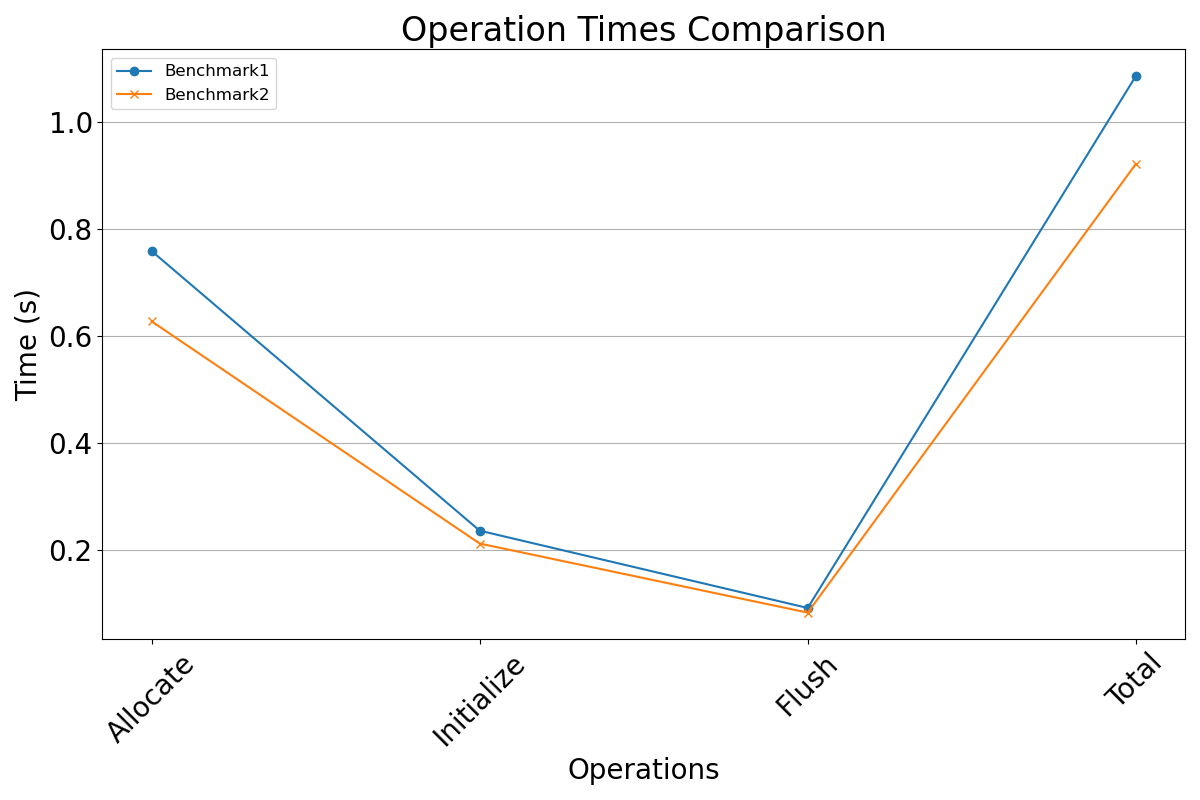
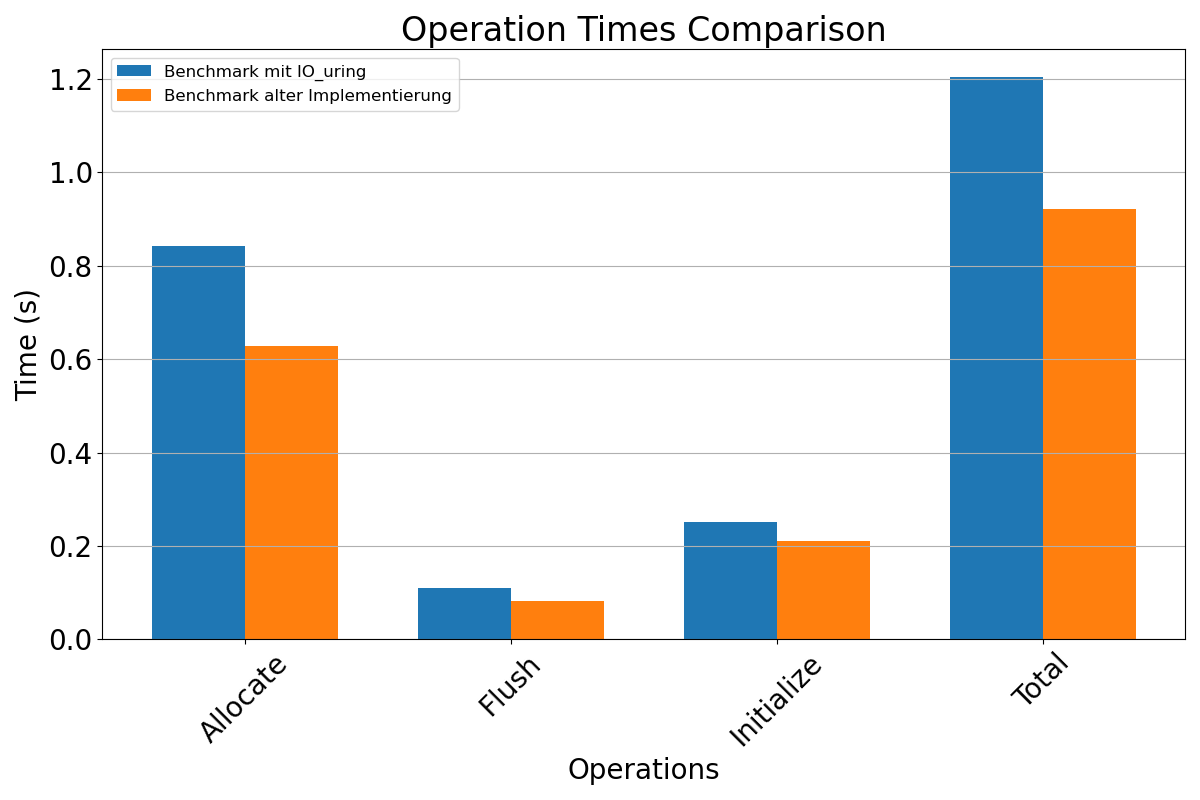
Co-authored-by: Bolmy <Bolmy@users.noreply.github.com>

diff --git a/src/python_plot/auto8.py b/src/python_plot/auto8.py
@@ -16,21 +16,41 @@ def read_data(file_path):
             data_sets.append(operations)
     return data_sets
 
+def align_datasets(data_set1, data_set2):
+    # Erstellen von Dictionaries für schnellen Zugriff
+    dict1 = {op: time for op, time in data_set1}
+    dict2 = {op: time for op, time in data_set2}
+
+    # Erstellen einer Liste aller Operationen in beiden Datensätzen
+    all_operations = sorted(set(dict1.keys()).union(set(dict2.keys())))
+
+    # Wenn eine Operation nicht in einem der Datensätze vorhanden ist, setzen wir den Wert auf 0
+    aligned_data_set1 = [(op, dict1.get(op, 0)) for op in all_operations]
+    aligned_data_set2 = [(op, dict2.get(op, 0)) for op in all_operations]
+
+    return aligned_data_set1, aligned_data_set2
+
 def plot_comparison(data_set1, data_set2, output_file):
     plt.figure(figsize=(12, 8))
 
-    # Plot data from the first dataset
+    # Daten aus den Datensätzen extrahieren
     labels1, values1 = zip(*data_set1)
-    plt.plot(labels1, values1, label='Benchmark mit IO_uring', marker='o')
-
-    # Plot data from the second dataset
     labels2, values2 = zip(*data_set2)
-    plt.plot(labels2, values2, label='Benchmark alter Implementierung', marker='x')
+
+    # Define the bar width and positions
+    bar_width = 0.35
+    x = range(len(labels1))
+
+    # Plot bars for the first dataset
+    plt.bar(x, values1, width=bar_width, label='Benchmark mit IO_uring', align='center')
+
+    # Plot bars for the second dataset, offset to the right
+    plt.bar([p + bar_width for p in x], values2, width=bar_width, label='Benchmark alter Implementierung', align='center')
 
     plt.title('Operation Times Comparison', fontsize=24)
     plt.xlabel('Operations', fontsize=20)
     plt.ylabel('Time (s)', fontsize=20)
-    plt.xticks(rotation=45, fontsize=20)
+    plt.xticks([p + bar_width / 2 for p in x], labels1, rotation=45, fontsize=20)
     plt.yticks(fontsize=20)
     plt.grid(axis='y')
     plt.legend(fontsize=12)
@@ -46,10 +66,11 @@ if __name__ == '__main__':
     data_sets1 = read_data(file_path1)
     data_sets2 = read_data(file_path2)
     
-    output_dir = 'comparison_plots'
+    output_dir = 'comparison_plots2'
     if not os.path.exists(output_dir):
         os.makedirs(output_dir)
 
     for idx, (data_set1, data_set2) in enumerate(zip(data_sets1, data_sets2)):
+        aligned_data_set1, aligned_data_set2 = align_datasets(data_set1, data_set2)
         output_file = os.path.join(output_dir, f'comparison_{idx + 1}.png')
-        plot_comparison(data_set1, data_set2, output_file)
+        plot_comparison(aligned_data_set1, aligned_data_set2, output_file)

diff --git a/src/python_plot/auto7.py b/src/python_plot/auto7.py
@@ -1,0 +1,64 @@
+import os
+import matplotlib.pyplot as plt
+from collections import defaultdict
+
+# Funktion zum Einlesen der .txt-Dateien
+def read_txt_file(filepath):
+    with open(filepath, 'r') as file:
+        lines = file.readlines()
+    
+    data = []
+    for line in lines:
+        operations = line.strip().split(',')
+        op_dict = defaultdict(float)
+        for op in operations:
+            if ':' in op:  # Überprüfen, ob das Trennzeichen ':' vorhanden ist
+                op_name, op_time = op.split(':')
+                op_dict[op_name] += float(op_time.rstrip('s'))
+        data.append(op_dict)
+    return data
+
+# Funktion zur Erstellung der Balkendiagramme
+def plot_and_save_barplots(data1, data2, output_dir):
+    os.makedirs(output_dir, exist_ok=True)
+    
+    # Benutzerdefinierte Reihenfolge der Labels
+    order = ["reads", "writes", "total"]  # Füge hier die Labels in der gewünschten Reihenfolge hinzu
+    
+    for i, (d1, d2) in enumerate(zip(data1, data2)):
+        # Labels sortieren nach benutzerdefinierter Reihenfolge
+        #labels = sorted(set(d1.keys()).union(d2.keys()), key=lambda x: (order.index(x) if x in order else len(order) + ord(x[0])))
+        print(d1.keys())
+        labels=d1.keys()
+        values1 = [d1[label] for label in labels]
+        values2 = [d2[label] for label in labels]
+        
+        x = range(len(labels))
+        width = 0.4
+
+        plt.figure(figsize=(10, 6))
+        plt.bar(x, values1, width, label='Benchmark mit IO_uring')
+        plt.bar([p + width for p in x], values2, width, label='Benchmark vor IO_uring')
+
+        plt.xlabel('Operations')
+        plt.ylabel('Time in (s)')
+        plt.title(f'Comparison of Operations in Entry {i+1}')
+        plt.xticks([p + width/2 for p in x], labels, rotation=45)
+        plt.legend()
+
+        # Speichern des Plots im angegebenen Ordner
+        plt.tight_layout()
+        plt.savefig(os.path.join(output_dir, f'comparison_plot_{i+1}.png'))
+        plt.show()
+
+# Hauptprogramm
+file1 = '/home/ossi/github/bachlorthesis/build/benchmark.txt'
+file2 = '/home/ossi/github/bachlorthesis/bench/oldbenchmark/benchmark2.txt'
+output_dir = 'output_plots4'  # Ordner zum Speichern der Bilder
+
+# Daten einlesen
+data1 = read_txt_file(file1)
+data2 = read_txt_file(file2)
+
+# Diagramme erstellen und speichern
+plot_and_save_barplots(data1, data2, output_dir)

diff --git a/bench/plotend2end.py b/bench/plotend2end.py
@@ -1,0 +1,53 @@
+import matplotlib.pyplot as plt
+import os
+
+# Funktion zum Einlesen der Daten aus einer .txt-Datei und Umwandeln in Millisekunden
+def read_data_from_txt(file_path):
+    with open(file_path, 'r') as file:
+        data = file.readlines()
+    # Wandelt die Zeilen in float-Werte um (und entfernt das 's' am Ende), und multipliziert mit 1000, um Sekunden in Millisekunden umzurechnen
+    values = [float(line.strip().replace('s', '')) * 1000 for line in data]
+    return values
+
+# Dateipfade zu den txt-Dateien
+file1_path = '/home/ossi/github/bachlorthesis/bench/data_old.txt'
+file2_path = '/home/ossi/github/bachlorthesis/bench/data_new.txt'
+
+# Daten aus den beiden Dateien einlesen
+values1 = read_data_from_txt(file1_path)
+values2 = read_data_from_txt(file2_path)
+
+# Überprüfen, ob die Anzahl der Werte in beiden Dateien übereinstimmt
+if len(values1) != len(values2):
+    raise ValueError("Die Anzahl der Werte in den beiden Dateien stimmt nicht überein!")
+
+# Ordner erstellen, falls er noch nicht existiert
+output_dir = 'output'
+if not os.path.exists(output_dir):
+    os.makedirs(output_dir)
+
+# Balkendiagramm erstellen
+x = range(len(values1))  # Positionen für die Balken (Index der Werte)
+
+plt.bar(x, values1, width=0.4, label='Benchmark vor IO_uring', align='center')
+plt.bar([i + 0.4 for i in x], values2, width=0.4, label='Benchmark nach IO_uring', align='center')
+
+# Diagramm beschriften
+plt.xlabel('Eintragsnummer')  # Die x-Achse zeigt die Indexnummer der Werte
+plt.ylabel('Zeit (Millisekunden)')  # Die y-Achse zeigt die Zeitwerte in Millisekunden
+# plt.title('Gegenüberstellung der Zeiten (in Millisekunden) aus Datei 1 und Datei 2')
+plt.legend()
+
+# X-Achse auf ganze Zahlen setzen
+plt.xticks(ticks=range(len(values1)), labels=[str(i) for i in range(len(values1))])
+
+# Bild im Ordner speichern
+output_file_path = os.path.join(output_dir, 'balkendiagramm.png')
+plt.savefig(output_file_path)
+
+# Diagramm anzeigen (optional)
+plt.show()
+
+print(f'Diagramm wurde in {output_file_path} gespeichert.')
+
+
